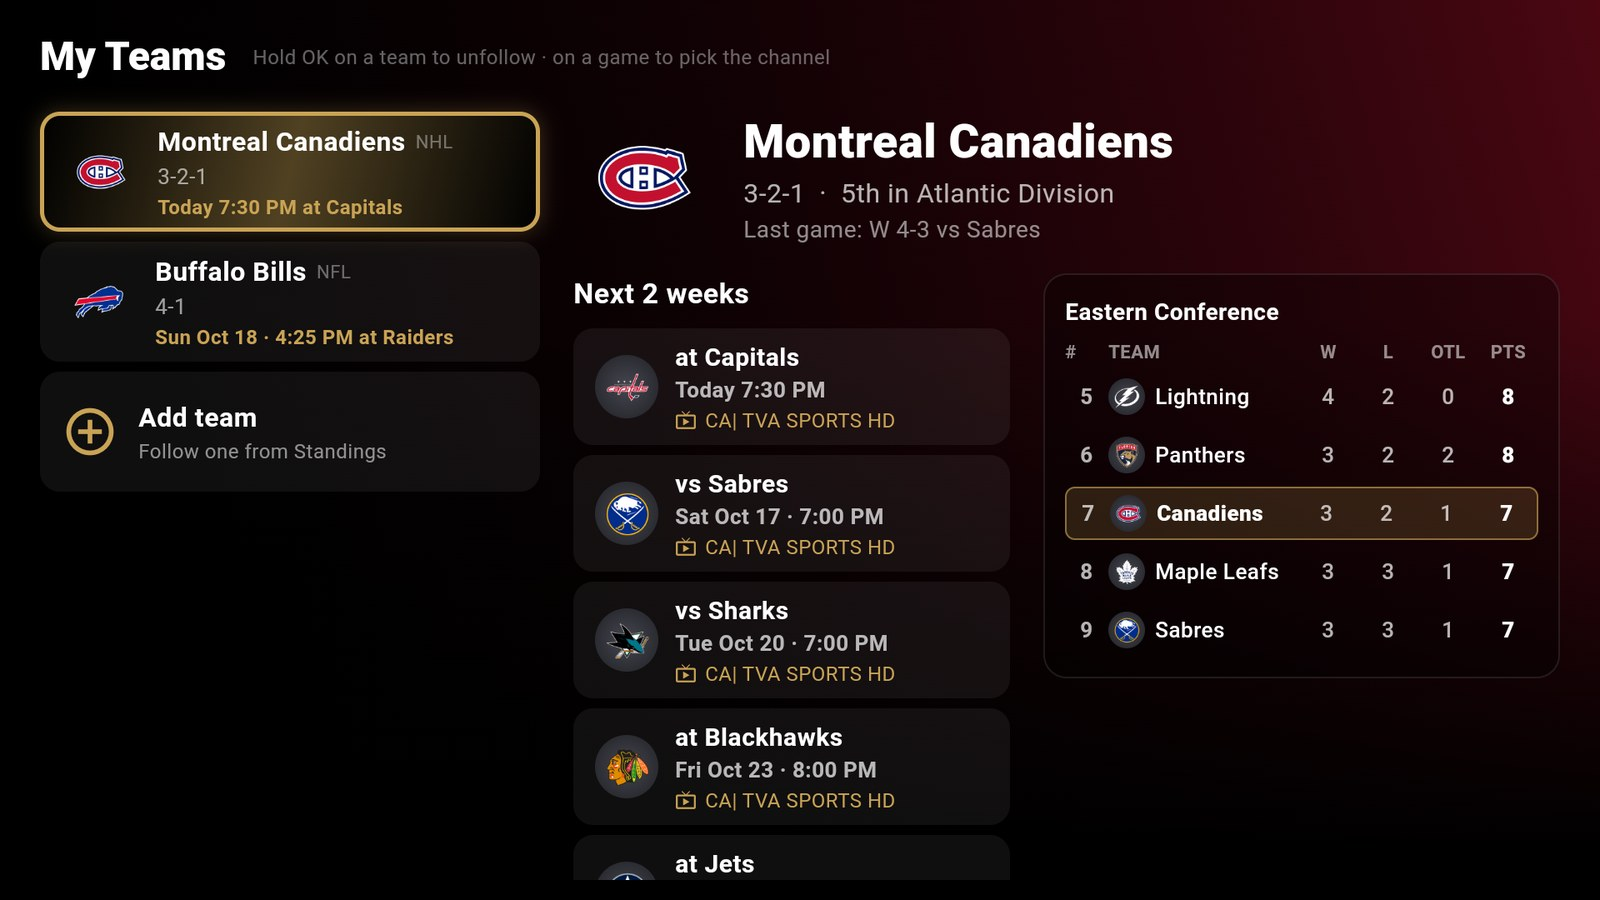
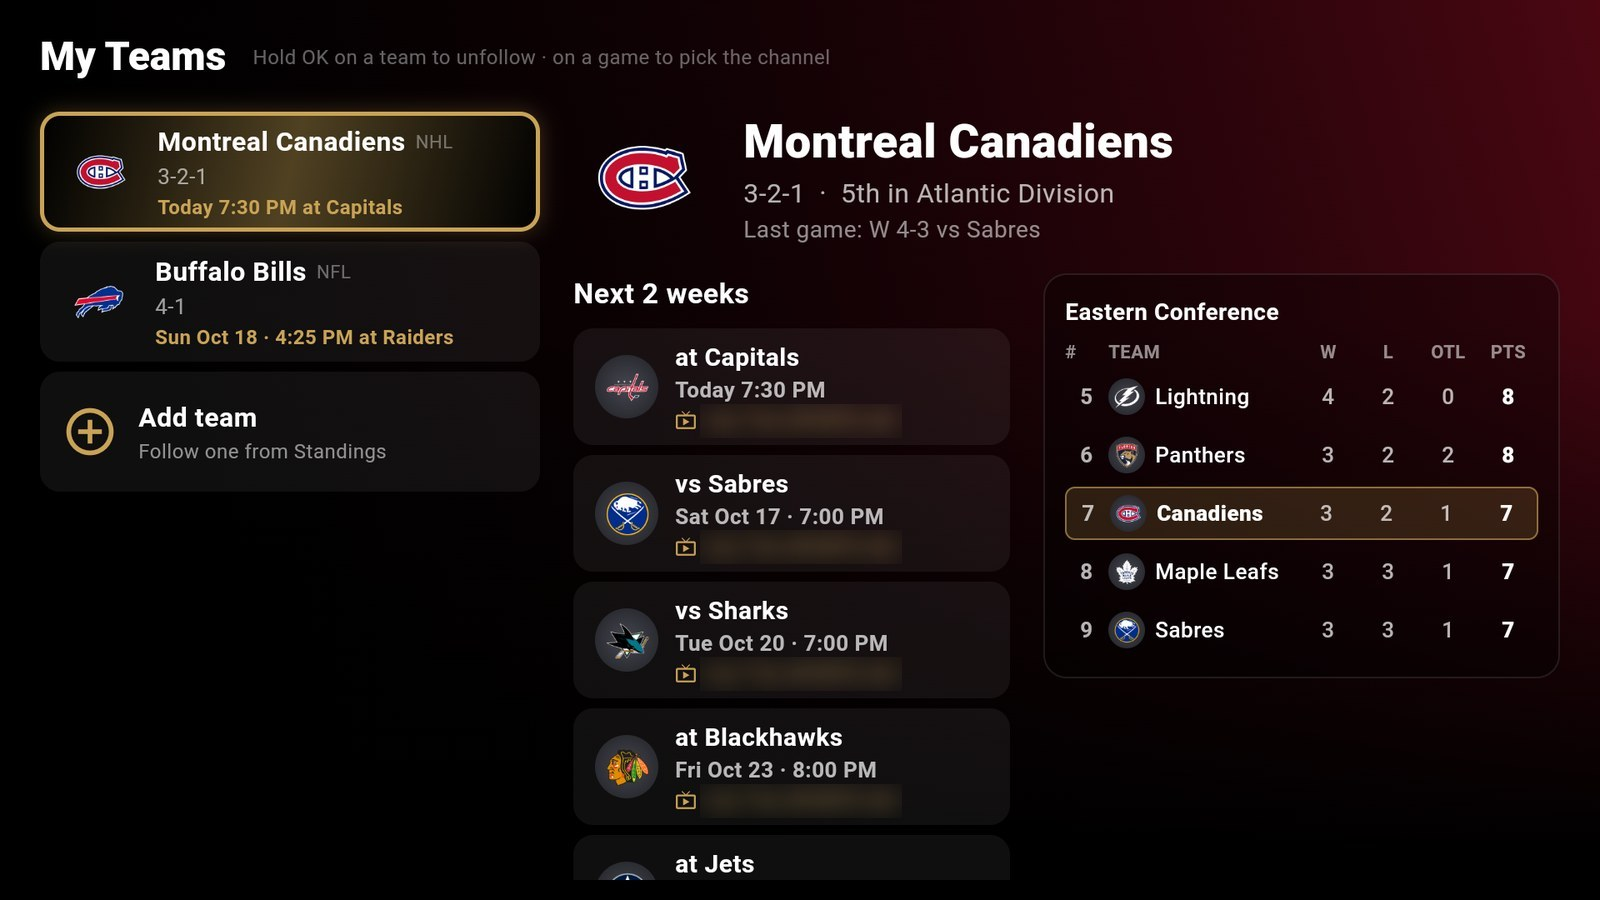
Site: blur provider channel names in the Sports Trak screenshots
Claude-Session: https://claude.ai/code/session_01Y8DwKE1FVweYdnwNmEZ3oz

diff --git a/docs/index.html b/docs/index.html
@@ -914,7 +914,7 @@ details .ans p + p{ margin-top:12px; }
         <li class="gal-item" role="group" aria-roledescription="slide" aria-label="9 of 25">
           <figure class="shot">
             <div class="shot-frame">
-              <img src="assets/shot-sports.jpg" width="1600" height="900" loading="lazy" decoding="async" draggable="false"
+              <img src="assets/shot-sports.jpg?v=11" width="1600" height="900" loading="lazy" decoding="async" draggable="false"
                    alt="VesperTV's Sports screen: league chips and a day strip along the top, a large summary of the Canadiens at Capitals game with its start time and matched channel, and a row of game cards with records and channels.">
             </div>
             <figcaption>Sports — live scores, and the channel each game is on</figcaption>
@@ -923,7 +923,7 @@ details .ans p + p{ margin-top:12px; }
         <li class="gal-item" role="group" aria-roledescription="slide" aria-label="10 of 25">
           <figure class="shot">
             <div class="shot-frame">
-              <img src="assets/shot-sports-guide.jpg?v=2" width="1600" height="900" loading="lazy" decoding="async" draggable="false"
+              <img src="assets/shot-sports-guide.jpg?v=11" width="1600" height="900" loading="lazy" decoding="async" draggable="false"
                    alt="Sports Trak's Guide layout: a game playing in a small player at the top left beside the matchup, start time, records and injuries, and below it the day's NHL games as a list with start times and the channel each one is on.">
             </div>
             <figcaption>Sports Trak's Guide layout — the day's games as a list, the channel beside each</figcaption>
@@ -932,7 +932,7 @@ details .ans p + p{ margin-top:12px; }
         <li class="gal-item" role="group" aria-roledescription="slide" aria-label="11 of 25">
           <figure class="shot">
             <div class="shot-frame">
-              <img src="assets/shot-my-teams.jpg" width="1600" height="900" loading="lazy" decoding="async" draggable="false"
+              <img src="assets/shot-my-teams.jpg?v=11" width="1600" height="900" loading="lazy" decoding="async" draggable="false"
                    alt="VesperTV's My Teams screen: followed teams on the left, and the Montreal Canadiens' record, division standing, last result, next two weeks of games with channels, and a mini conference table on the right.">
             </div>
             <figcaption>My Teams — record, standing and the next two weeks, one press from the stream</figcaption>
@@ -959,7 +959,7 @@ details .ans p + p{ margin-top:12px; }
         <li class="gal-item" role="group" aria-roledescription="slide" aria-label="14 of 25">
           <figure class="shot">
             <div class="shot-frame">
-              <img src="assets/shot-sports-mode-rail.jpg" width="1600" height="900" loading="lazy" decoding="async" draggable="false"
+              <img src="assets/shot-sports-mode-rail.jpg?v=11" width="1600" height="900" loading="lazy" decoding="async" draggable="false"
                    alt="Sports Mode home on a TV: a left rail of leagues (NHL, NFL, NCAAF, UFC, CFL) above Live TV, Movies and TV Shows, with the Devils at Avalanche game, its start time and channel, and a My Teams card.">
             </div>
             <figcaption>Sports Mode (beta) — open the app straight into your leagues and teams</figcaption>
@@ -968,7 +968,7 @@ details .ans p + p{ margin-top:12px; }
         <li class="gal-item" role="group" aria-roledescription="slide" aria-label="15 of 25">
           <figure class="shot">
             <div class="shot-frame">
-              <img src="assets/shot-sports-mode-feed.jpg?v=2" width="1600" height="900" loading="lazy" decoding="async" draggable="false"
+              <img src="assets/shot-sports-mode-feed.jpg?v=11" width="1600" height="900" loading="lazy" decoding="async" draggable="false"
                    alt="Sports Mode with a game playing: a feed of today's games on the left, My Teams first, and the matched channel playing large beside it, with hints for full screen and stats.">
             </div>
             <figcaption>Sports Mode — pick a game from the feed and it plays beside the list</figcaption>
@@ -1488,7 +1488,7 @@ details .ans p + p{ margin-top:12px; }
       <div class="shot-stack reveal">
         <figure class="shot">
           <div class="shot-frame">
-            <img src="assets/shot-sports.jpg" width="1600" height="900" loading="lazy" decoding="async" draggable="false"
+            <img src="assets/shot-sports.jpg?v=11" width="1600" height="900" loading="lazy" decoding="async" draggable="false"
                  alt="Sports Trak on a TV: today's games as cards with live scores, and the channel each one is on.">
           </div>
           <figcaption>Live scores, and the channel each game is on</figcaption>
@@ -1496,14 +1496,14 @@ details .ans p + p{ margin-top:12px; }
         <div class="shot-pair">
         <figure class="shot shot-sm">
           <div class="shot-frame">
-            <img src="assets/shot-sports-guide.jpg?v=2" width="1600" height="900" loading="lazy" decoding="async" draggable="false"
+            <img src="assets/shot-sports-guide.jpg?v=11" width="1600" height="900" loading="lazy" decoding="async" draggable="false"
                  alt="Sports Trak's Guide layout: a game card playing in a small player beside the matchup, and the day's games as a list with their channels.">
           </div>
           <figcaption>Guide layout with the small player</figcaption>
         </figure>
         <figure class="shot shot-sm">
           <div class="shot-frame">
-            <img src="assets/shot-my-teams.jpg" width="1600" height="900" loading="lazy" decoding="async" draggable="false"
+            <img src="assets/shot-my-teams.jpg?v=11" width="1600" height="900" loading="lazy" decoding="async" draggable="false"
                  alt="My Teams: a followed team's record, standing and upcoming games.">
           </div>
           <figcaption>My Teams</figcaption>
